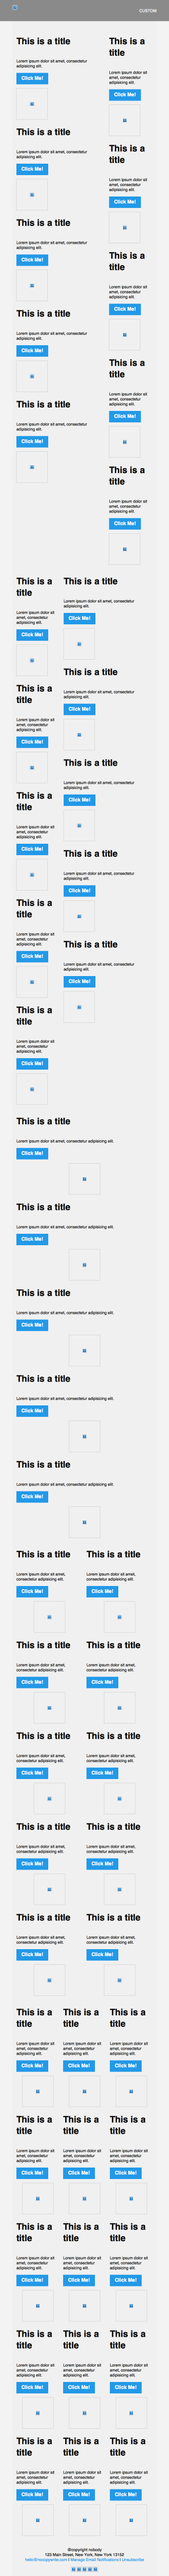
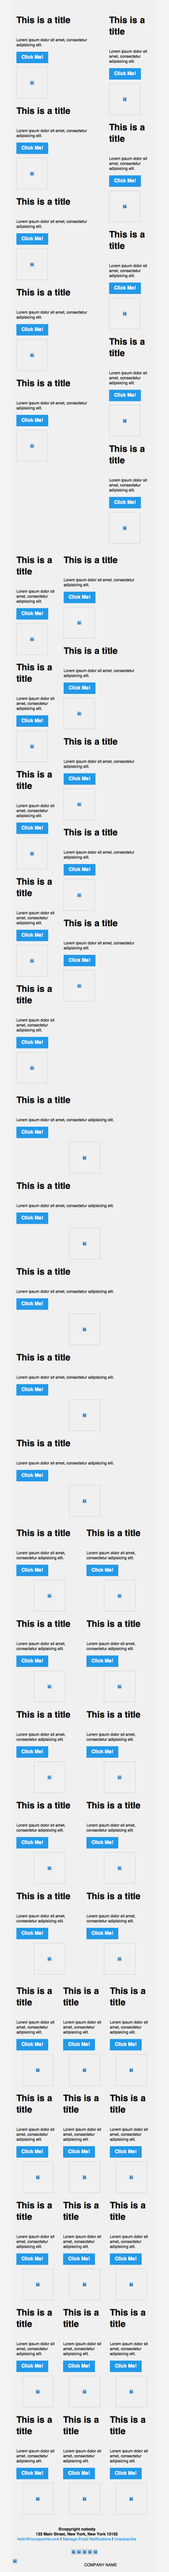
improved padding adjustment on ftr/hdr blocks

Changed region(s): [[0.0, 0.0, 1.0, 0.9963], [0.3235, 0.5916, 0.8529, 1.0], [0.4706, 0.467, 0.5, 0.5916]]

diff --git a/templates/bluenile/template-bluenile.html b/templates/bluenile/template-bluenile.html
@@ -267,11 +267,11 @@
         thirtySeventyImgTextBlock:preview,
         threeWideBlock:preview,
         sixtyFortyBlock:preview,
+        footerCenteredBlock:preview,
+        simpleHdrBlock:preview,
         socialshareBlock:preview { -ko-background-color: @[backgroundColor] }
 
         spacerBlock:preview,
-        footerCenteredBlock:preview,
-        simpleHdrBlock:preview,
         logoBlock:preview { -ko-background-color: @[externalBackgroundColor] }
 
       }
@@ -3195,7 +3195,7 @@
                         </tbody>
                       </table>
 
-                      <table data-ko-block="footerCenteredBlock" class="row collapsed footer" style="background-color: #f0f0f0;-ko-background-color: @backgroundColor;border-collapse:collapse;border-spacing:0;display:table;padding:0;position:relative;text-align:left;vertical-align:top;width:100%">
+                      <table data-ko-block="footerCenteredBlock" class="row footer" style="background-color: #f0f0f0;-ko-background-color: @backgroundColor;border-collapse:collapse;border-spacing:0;display:table;padding:0;position:relative;text-align:left;vertical-align:top;width:100%">
                         <tbody>
                           <tr style="padding:0;text-align:left;vertical-align:top">
                             <th class="small-12 large-12 columns first last" style="Margin:0 auto;color:#0a0a0a;font-family:Helvetica,Arial,sans-serif;font-size:16px;font-weight:400;line-height:1.3;margin:0 auto;padding:0;padding-bottom:16px;padding-left:16px;padding-right:16px;text-align:left;width:564px">
@@ -3287,14 +3287,15 @@
                         </tbody>
                       </table>
 
-                      <table data-ko-block="simpleHdrBlock" class="row collapse" style="background-color: #f0f0f0;-ko-background-color: @backgroundColor;border-collapse:collapse;border-spacing:0;display:table;padding:0;position:relative;text-align:left;vertical-align:top;width:100%">
+                      <table data-ko-block="simpleHdrBlock" class="row" style="background-color: #f0f0f0;-ko-background-color: @backgroundColor;border-collapse:collapse;border-spacing:0;display:table;padding:0;position:relative;text-align:left;vertical-align:top;width:100%">
                         <tbody>
                           <tr style="padding:0;text-align:left;vertical-align:top">
                             <th class="small-6 large-6 columns first" style="Margin:0 auto;color:#0a0a0a;font-family:Helvetica,Arial,sans-serif;font-size:16px;font-weight:400;line-height:1.3;margin:0 auto;padding:0;padding-bottom:0;padding-left:0;padding-right:0;text-align:left;width:298px">
                               <table style="border-collapse:collapse;border-spacing:0;padding:0;text-align:left;vertical-align:top;width:100%">
                                 <tr style="padding:0;text-align:left;vertical-align:top">
-                                  <th data-ko-display="imageVisible" style="Margin:0;color:#0a0a0a;font-family:Helvetica,Arial,sans-serif;font-size:16px;font-weight:400;line-height:1.3;margin:0;padding:0;text-align:left">
-                                    <a data-ko-link="image.url" href="#" style="padding: 0px 0px 0px 0px; -ko-padding: @[image.paddingTop]px @[image.paddingRight]px @[image.paddingBottom]px @[image.paddingLeft]px;">
+                                  <th data-ko-display="imageVisible" style="Margin:0;color:#0a0a0a;font-family:Helvetica,Arial,sans-serif;font-size:16px;font-weight:400;line-height:1.3;margin:0;text-align:left;
+                                  padding: 0px 0px 0px 0px; -ko-padding: @[image.paddingTop]px @[image.paddingRight]px @[image.paddingBottom]px @[image.paddingLeft]px;">
+                                    <a data-ko-link="image.url" href="#">
                                       <img data-ko-editable="image.src" data-ko-placeholder-height="50" src="http://placehold.it/200x50/663399" width="200" alt=""
                                       style="-ms-interpolation-mode:bicubic;clear:both;display:block;max-width:200px;outline:0;text-decoration:none;width:auto;
                                       -ko-attr-width: @imageWidth; -ko-max-width: @[imageWidth]px; -ko-attr-alt: @image.alt;">
